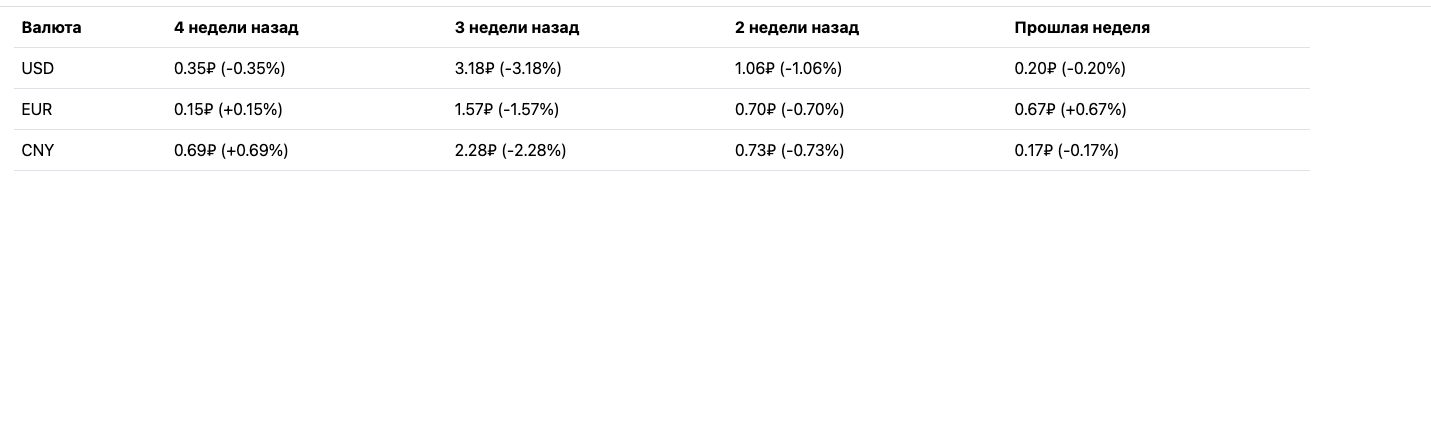
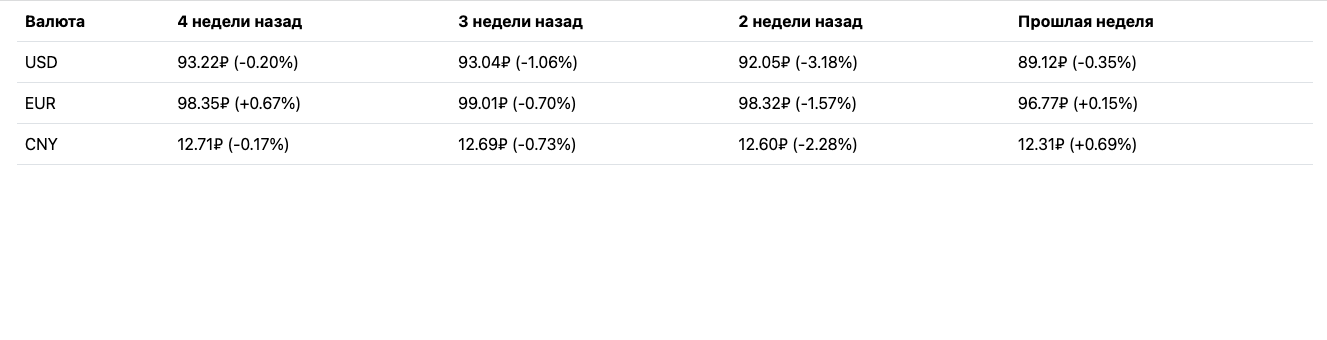
Tests

diff --git a/spec/spec_helper.rb b/spec/spec_helper.rb
@@ -1,0 +1,94 @@
+# This file was generated by the `rails generate rspec:install` command. Conventionally, all
+# specs live under a `spec` directory, which RSpec adds to the `$LOAD_PATH`.
+# The generated `.rspec` file contains `--require spec_helper` which will cause
+# this file to always be loaded, without a need to explicitly require it in any
+# files.
+#
+# Given that it is always loaded, you are encouraged to keep this file as
+# light-weight as possible. Requiring heavyweight dependencies from this file
+# will add to the boot time of your test suite on EVERY test run, even for an
+# individual file that may not need all of that loaded. Instead, consider making
+# a separate helper file that requires the additional dependencies and performs
+# the additional setup, and require it from the spec files that actually need
+# it.
+#
+# See https://rubydoc.info/gems/rspec-core/RSpec/Core/Configuration
+RSpec.configure do |config|
+  # rspec-expectations config goes here. You can use an alternate
+  # assertion/expectation library such as wrong or the stdlib/minitest
+  # assertions if you prefer.
+  config.expect_with :rspec do |expectations|
+    # This option will default to `true` in RSpec 4. It makes the `description`
+    # and `failure_message` of custom matchers include text for helper methods
+    # defined using `chain`, e.g.:
+    #     be_bigger_than(2).and_smaller_than(4).description
+    #     # => "be bigger than 2 and smaller than 4"
+    # ...rather than:
+    #     # => "be bigger than 2"
+    expectations.include_chain_clauses_in_custom_matcher_descriptions = true
+  end
+
+  # rspec-mocks config goes here. You can use an alternate test double
+  # library (such as bogus or mocha) by changing the `mock_with` option here.
+  config.mock_with :rspec do |mocks|
+    # Prevents you from mocking or stubbing a method that does not exist on
+    # a real object. This is generally recommended, and will default to
+    # `true` in RSpec 4.
+    mocks.verify_partial_doubles = true
+  end
+
+  # This option will default to `:apply_to_host_groups` in RSpec 4 (and will
+  # have no way to turn it off -- the option exists only for backwards
+  # compatibility in RSpec 3). It causes shared context metadata to be
+  # inherited by the metadata hash of host groups and examples, rather than
+  # triggering implicit auto-inclusion in groups with matching metadata.
+  config.shared_context_metadata_behavior = :apply_to_host_groups
+
+# The settings below are suggested to provide a good initial experience
+# with RSpec, but feel free to customize to your heart's content.
+=begin
+  # This allows you to limit a spec run to individual examples or groups
+  # you care about by tagging them with `:focus` metadata. When nothing
+  # is tagged with `:focus`, all examples get run. RSpec also provides
+  # aliases for `it`, `describe`, and `context` that include `:focus`
+  # metadata: `fit`, `fdescribe` and `fcontext`, respectively.
+  config.filter_run_when_matching :focus
+
+  # Allows RSpec to persist some state between runs in order to support
+  # the `--only-failures` and `--next-failure` CLI options. We recommend
+  # you configure your source control system to ignore this file.
+  config.example_status_persistence_file_path = "spec/examples.txt"
+
+  # Limits the available syntax to the non-monkey patched syntax that is
+  # recommended. For more details, see:
+  # https://rspec.info/features/3-12/rspec-core/configuration/zero-monkey-patching-mode/
+  config.disable_monkey_patching!
+
+  # Many RSpec users commonly either run the entire suite or an individual
+  # file, and it's useful to allow more verbose output when running an
+  # individual spec file.
+  if config.files_to_run.one?
+    # Use the documentation formatter for detailed output,
+    # unless a formatter has already been configured
+    # (e.g. via a command-line flag).
+    config.default_formatter = "doc"
+  end
+
+  # Print the 10 slowest examples and example groups at the
+  # end of the spec run, to help surface which specs are running
+  # particularly slow.
+  config.profile_examples = 10
+
+  # Run specs in random order to surface order dependencies. If you find an
+  # order dependency and want to debug it, you can fix the order by providing
+  # the seed, which is printed after each run.
+  #     --seed 1234
+  config.order = :random
+
+  # Seed global randomization in this process using the `--seed` CLI option.
+  # Setting this allows you to use `--seed` to deterministically reproduce
+  # test failures related to randomization by passing the same `--seed` value
+  # as the one that triggered the failure.
+  Kernel.srand config.seed
+=end
+end

diff --git a/spec/rails_helper.rb b/spec/rails_helper.rb
@@ -1,0 +1,67 @@
+# This file is copied to spec/ when you run 'rails generate rspec:install'
+require 'spec_helper'
+ENV['RAILS_ENV'] ||= 'test'
+require_relative '../config/environment'
+# Prevent database truncation if the environment is production
+abort("The Rails environment is running in production mode!") if Rails.env.production?
+require 'rspec/rails'
+# Add additional requires below this line. Rails is not loaded until this point!
+require 'webmock/rspec'
+
+WebMock.disable_net_connect!(allow_localhost: true)
+
+# Requires supporting ruby files with custom matchers and macros, etc, in
+# spec/support/ and its subdirectories. Files matching `spec/**/*_spec.rb` are
+# run as spec files by default. This means that files in spec/support that end
+# in _spec.rb will both be required and run as specs, causing the specs to be
+# run twice. It is recommended that you do not name files matching this glob to
+# end with _spec.rb. You can configure this pattern with the --pattern
+# option on the command line or in ~/.rspec, .rspec or `.rspec-local`.
+#
+# The following line is provided for convenience purposes. It has the downside
+# of increasing the boot-up time by auto-requiring all files in the support
+# directory. Alternatively, in the individual `*_spec.rb` files, manually
+# require only the support files necessary.
+#
+# Dir[Rails.root.join('spec', 'support', '**', '*.rb')].sort.each { |f| require f }
+
+# Checks for pending migrations and applies them before tests are run.
+# If you are not using ActiveRecord, you can remove these lines.
+begin
+  ActiveRecord::Migration.maintain_test_schema!
+rescue ActiveRecord::PendingMigrationError => e
+  puts e.to_s.strip
+  exit 1
+end
+RSpec.configure do |config|
+  # Remove this line if you're not using ActiveRecord or ActiveRecord fixtures
+  config.fixture_path = "#{::Rails.root}/spec/fixtures"
+
+  # If you're not using ActiveRecord, or you'd prefer not to run each of your
+  # examples within a transaction, remove the following line or assign false
+  # instead of true.
+  config.use_transactional_fixtures = true
+
+  # You can uncomment this line to turn off ActiveRecord support entirely.
+  # config.use_active_record = false
+
+  # RSpec Rails can automatically mix in different behaviours to your tests
+  # based on their file location, for example enabling you to call `get` and
+  # `post` in specs under `spec/controllers`.
+  #
+  # You can disable this behaviour by removing the line below, and instead
+  # explicitly tag your specs with their type, e.g.:
+  #
+  #     RSpec.describe UsersController, type: :controller do
+  #       # ...
+  #     end
+  #
+  # The different available types are documented in the features, such as in
+  # https://relishapp.com/rspec/rspec-rails/docs
+  config.infer_spec_type_from_file_location!
+
+  # Filter lines from Rails gems in backtraces.
+  config.filter_rails_from_backtrace!
+  # arbitrary gems may also be filtered via:
+  # config.filter_gems_from_backtrace("gem name")
+end

diff --git a/app/services/currency_rate_service.rb b/app/services/currency_rate_service.rb
@@ -9,16 +9,22 @@ class CurrencyRateService
     rates
   end
 
+  private
+
   def self.last_four_weeks_rates(currency)
     (1..4).map do |weeks_ago|
       start_date = weeks_ago.weeks.ago.beginning_of_week
       end_date = weeks_ago.weeks.ago.end_of_week
 
-      start_rate = CurrencyRate.where(currency: currency, date: start_date).first
-      end_rate = CurrencyRate.where(currency: currency, date: end_date).first
+      start_rate = find_rate_for_date(currency, start_date)
+      end_rate = find_rate_for_date(currency, end_date)
 
       calculate_rate_change(start_rate, end_rate)
     end
+  end
+
+  def self.find_rate_for_date(currency, date)
+    CurrencyRate.where(currency: currency, date: date).first
   end
 
   def self.calculate_rate_change(start_rate, end_rate)
@@ -30,10 +36,10 @@ class CurrencyRateService
     change = end_value - start_value
     percentage_change = (change / start_value) * 100
 
-    format_change(percentage_change)
+    format_change(percentage_change, start_value)
   end
 
-  def self.format_change(percentage_change)
-    format('%.2f₽ (%+.2f%%)', percentage_change.abs, percentage_change)
+  def self.format_change(percentage_change, start_value)
+    format('%.2f₽ (%+.2f%%)', start_value, percentage_change)
   end
 end

diff --git a/spec/services/currency_rate_service_spec.rb b/spec/services/currency_rate_service_spec.rb
@@ -1,0 +1,22 @@
+require 'rails_helper'
+
+RSpec.describe CurrencyRateService do
+  describe '.weekly_rates' do
+    let(:currency) { 'USD' }
+
+    before do
+      4.times do |i|
+        start_date = i.weeks.ago.beginning_of_week
+        end_date = i.weeks.ago.end_of_week
+        CurrencyRate.create!(currency: currency, nominal: 1, name: 'US Dollar', value: 70 + i, date: start_date)
+        CurrencyRate.create!(currency: currency, nominal: 1, name: 'US Dollar', value: 71 + i, date: end_date)
+      end
+    end
+
+    it 'calculates weekly rates correctly' do
+      rates = described_class.weekly_rates
+      expect(rates[currency].length).to eq(4)
+      expect(rates[currency].first).to include('₽')
+    end
+  end
+end

diff --git a/spec/services/currency_rates_service_spec.rb b/spec/services/currency_rates_service_spec.rb
@@ -1,0 +1,21 @@
+require 'rails_helper'
+
+RSpec.describe CurrencyRatesService do
+  describe '.fetch_rates' do
+    let(:date) { Date.today }
+    let(:url) { described_class::URL + date.strftime('%d/%m/%Y') }
+    let(:xml_data) { File.read(Rails.root.join('spec/fixtures/cbr_response.xml')) }
+
+    before do
+      stub_request(:get, url).to_return(body: xml_data)
+    end
+
+    it 'fetches and saves rates correctly' do
+      expect { described_class.fetch_rates(date) }.to change { CurrencyRate.count }.by(3)
+
+      rate = CurrencyRate.find_by(currency: 'USD', date: date)
+      expect(rate).not_to be_nil
+      expect(rate.value).to eq(71.5763)
+    end
+  end
+end

diff --git a/spec/models/currency_rate_spec.rb b/spec/models/currency_rate_spec.rb
@@ -1,0 +1,18 @@
+require 'rails_helper'
+
+RSpec.describe CurrencyRate, type: :model do
+  describe '.last_month_rates' do
+    let(:currency) { 'USD' }
+
+    before do
+      CurrencyRate.create!(currency: currency, nominal: 1, name: 'US Dollar', value: 70, date: 30.days.ago)
+      CurrencyRate.create!(currency: currency, nominal: 1, name: 'US Dollar', value: 71, date: Date.today)
+    end
+
+    it 'returns rates for the last month for a given currency' do
+      rates = CurrencyRate.last_month_rates(currency)
+      expect(rates.length).to eq(2)
+      expect(rates.first.currency).to eq(currency)
+    end
+  end
+end

diff --git a/spec/controllers/rates_controller_spec.rb b/spec/controllers/rates_controller_spec.rb
@@ -1,0 +1,10 @@
+require 'rails_helper'
+
+RSpec.describe RatesController, type: :controller do
+  describe 'GET #index' do
+    it 'assigns @weekly_rates' do
+      get :index
+      expect(assigns(:weekly_rates)).to include('USD', 'EUR', 'CNY')
+    end
+  end
+end

diff --git a/spec/controllers/charts_controller_spec.rb b/spec/controllers/charts_controller_spec.rb
@@ -1,0 +1,10 @@
+require 'rails_helper'
+
+RSpec.describe ChartsController, type: :controller do
+  describe 'GET #index' do
+    it 'assigns @data' do
+      get :index
+      expect(assigns(:data)).to include('USD', 'EUR', 'CNY')
+    end
+  end
+end

diff --git a/README.md b/README.md
@@ -15,6 +15,11 @@ rake db:migrate
 rake db:seed
 ```
 
+Для запуска тестов используйте команду:
+```bash
+RAILS_ENV=test bundle exec rspec
+```
+
 ## Demo
 ![график курсов валют](https://github.com/badimalex/currency_tracker/blob/main/Screenshot%202023-11-27%20at%2015.56.38.png?raw=true)
 ![изменение цен](https://github.com/badimalex/currency_tracker/blob/main/Screenshot%202023-11-27%20at%2015.56.42.png?raw=true)
